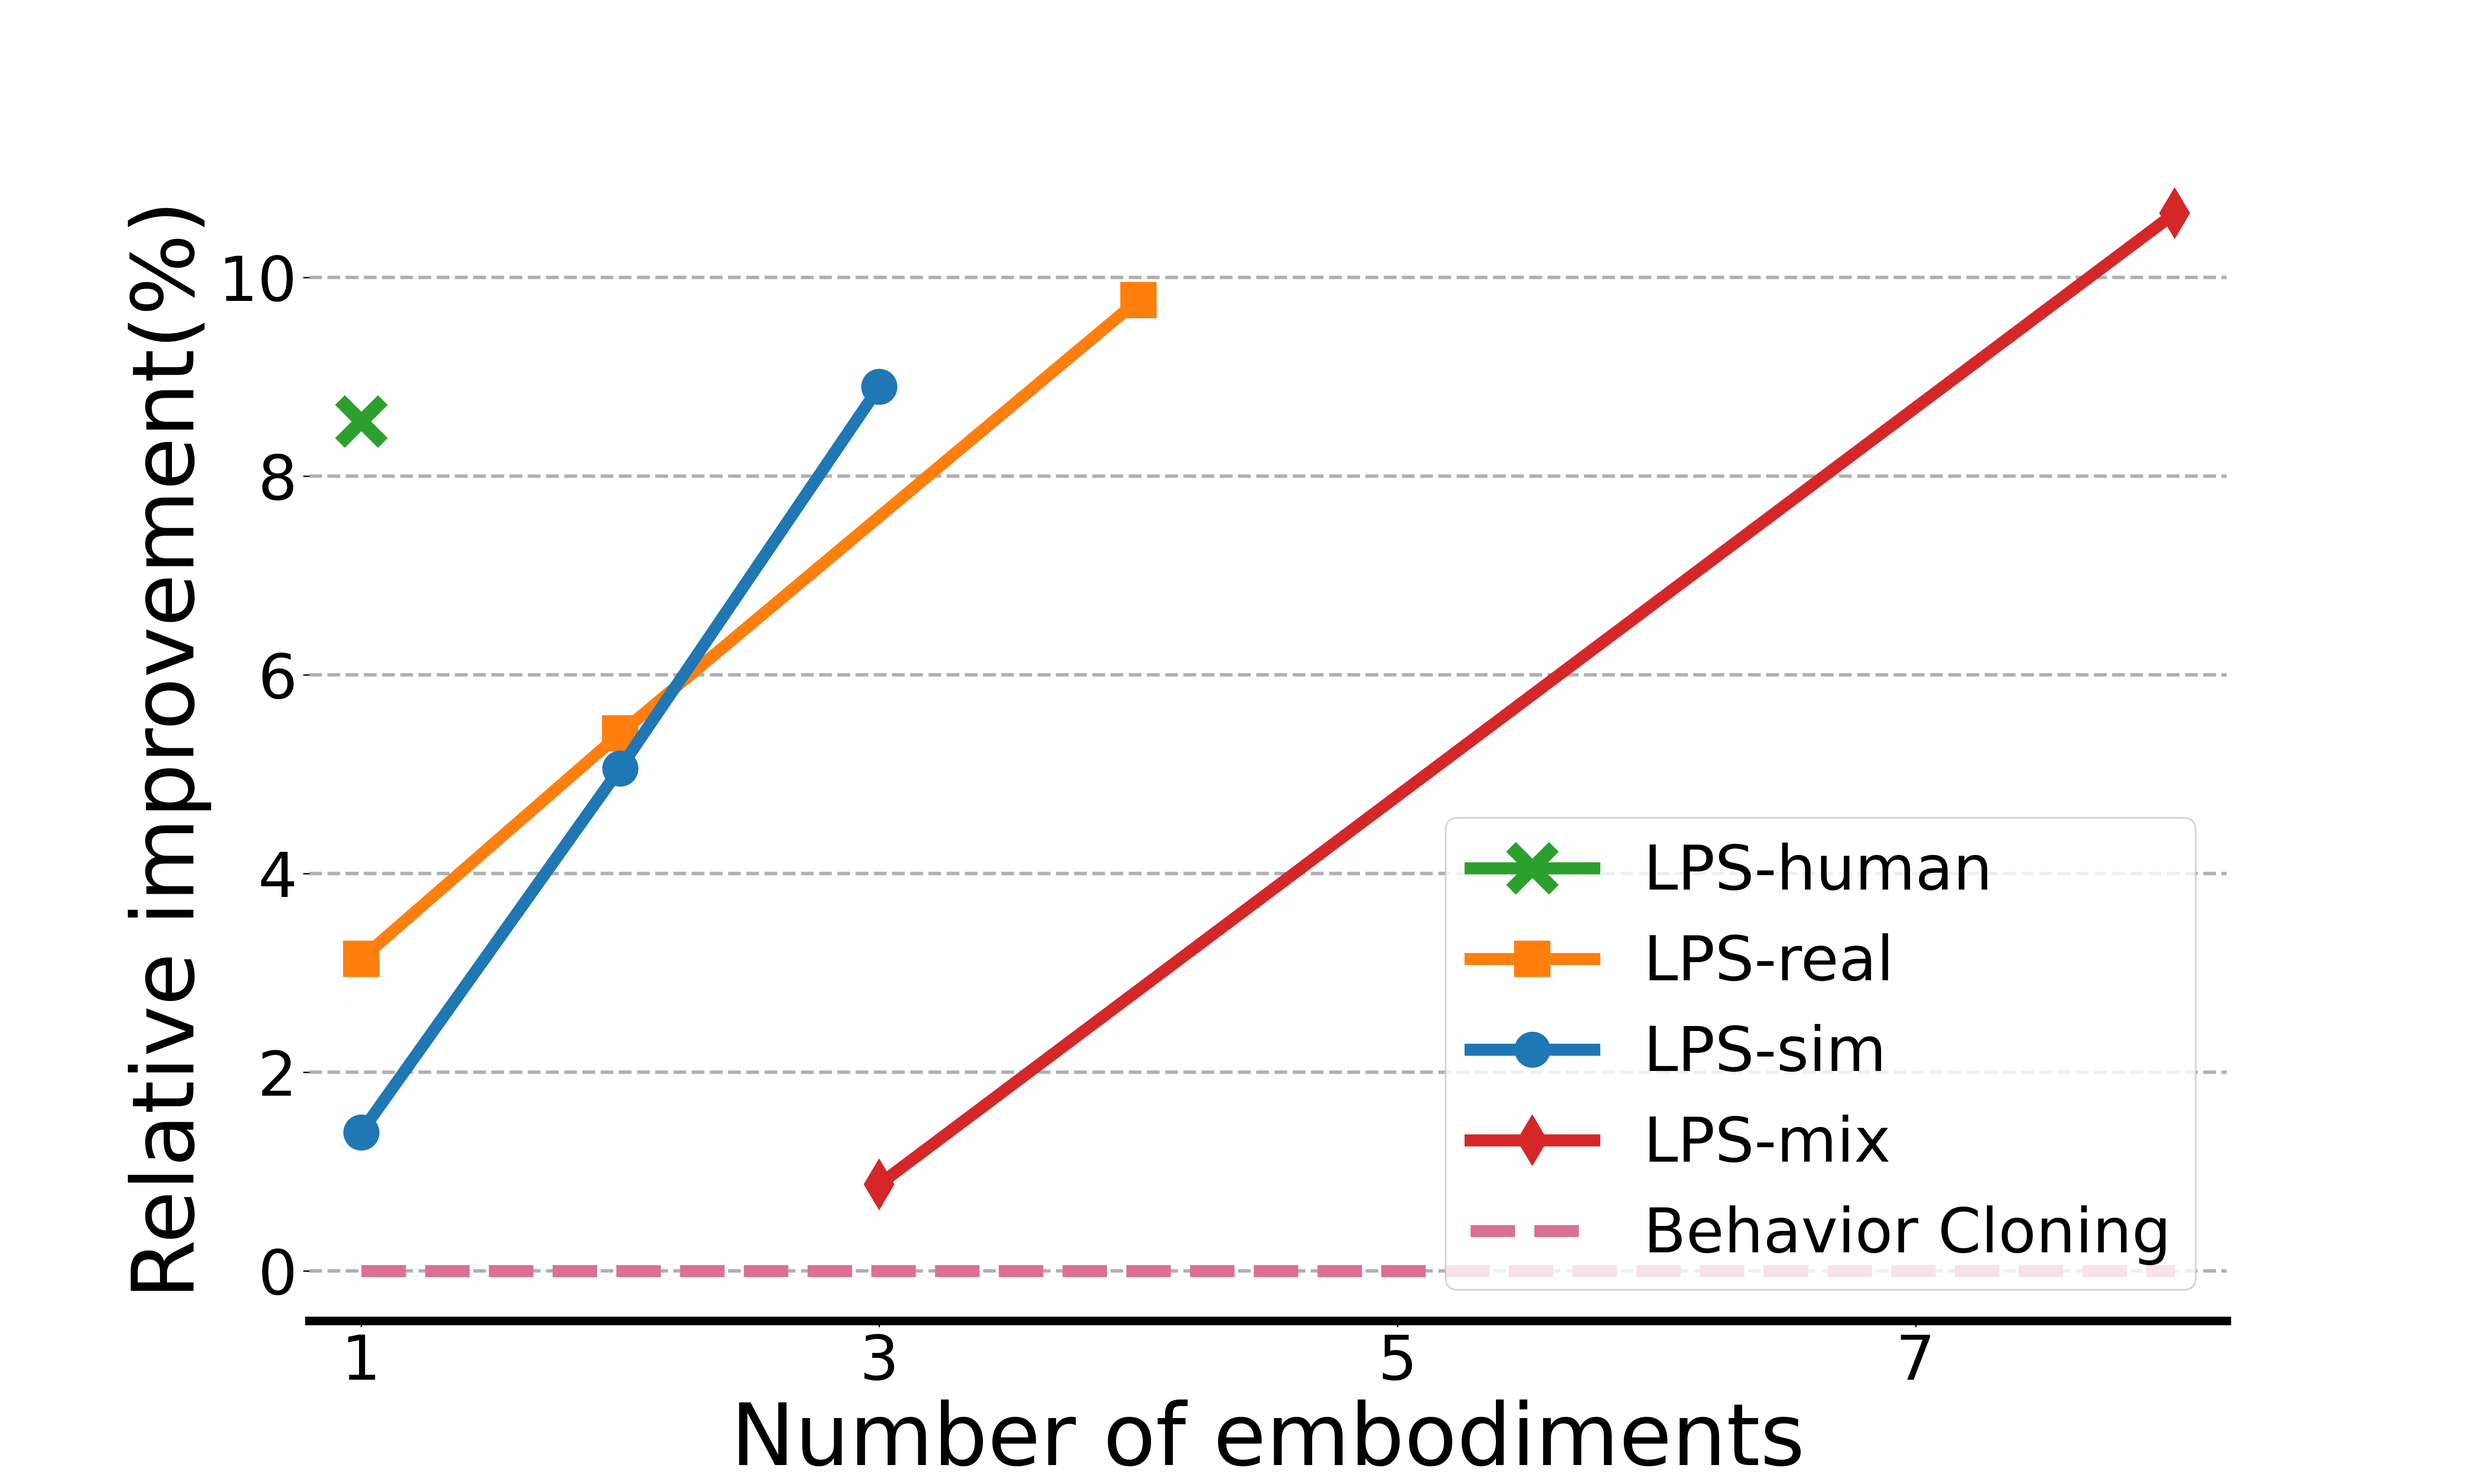
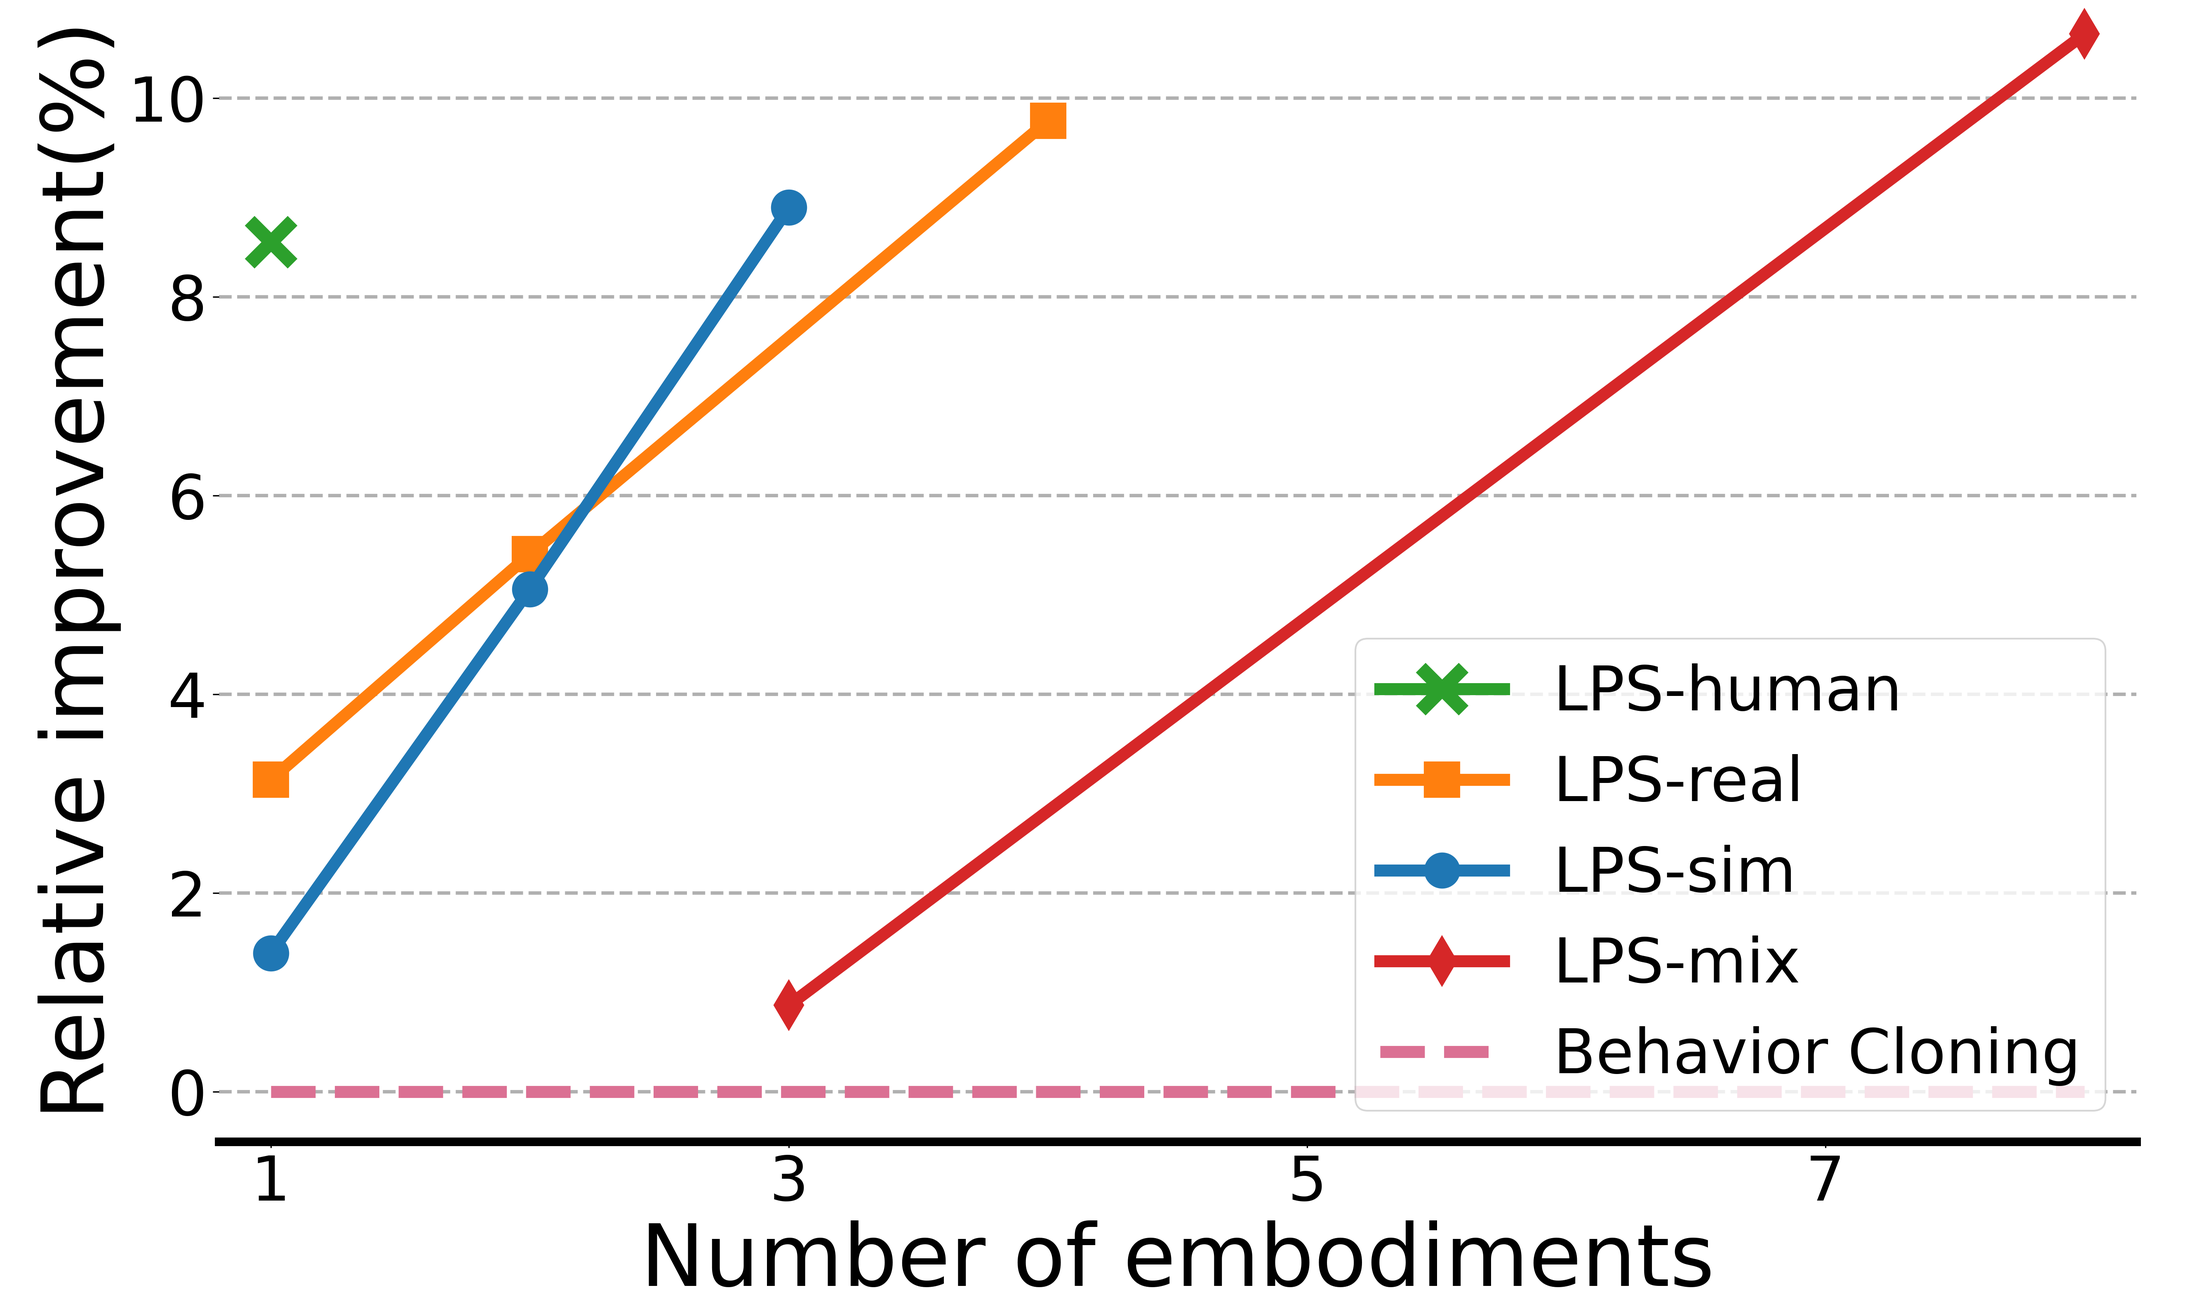
Update

Changed region(s): [[0.0, 0.0, 0.9658, 0.993], [0.4362, 0.0621, 0.4985, 0.1552], [0.1246, 0.2483, 0.1558, 0.3103]]

diff --git a/index.html b/index.html
@@ -138,17 +138,18 @@
     <hr>
 
     <h1>Scaling With Embodiments</h1>
+
     <img style="width: 80%;" src="./resources/embodiments.png"
          alt="Results figure"/>
 
-    <br
+    <br><br>
     <p style="width: 80%;">
         We explores how does LPS and its embodiment-agnostic pretrained WM performance scale with the number of embodiments in the Robomimic benchmark, by varying its pretraining mixtures and compares to a base policy. We report the relative improvement of average success rate, across 4 tasks.
         We observe a promising trend: thanks to the embodiment-agnostic WM, increasing the number of embodiments leads to more usable pretraining data and results in better performance compared to the behavior-cloned baseline. 
         While embodiment-dependent pretrained policies such as <a href="https://arxiv.org/abs/2409.20537">HPT</a> could also scale with embodiments, we do not compare to it since HPT pretrained with more than 20 embodiments performs sub-optimally given a small amount of finetuning data on the target embodiment, as shown in real-world experiments above.
         
     </p>
-    ><br>
+    <br>
     <hr>
 
     <h1>Paper</h1>
